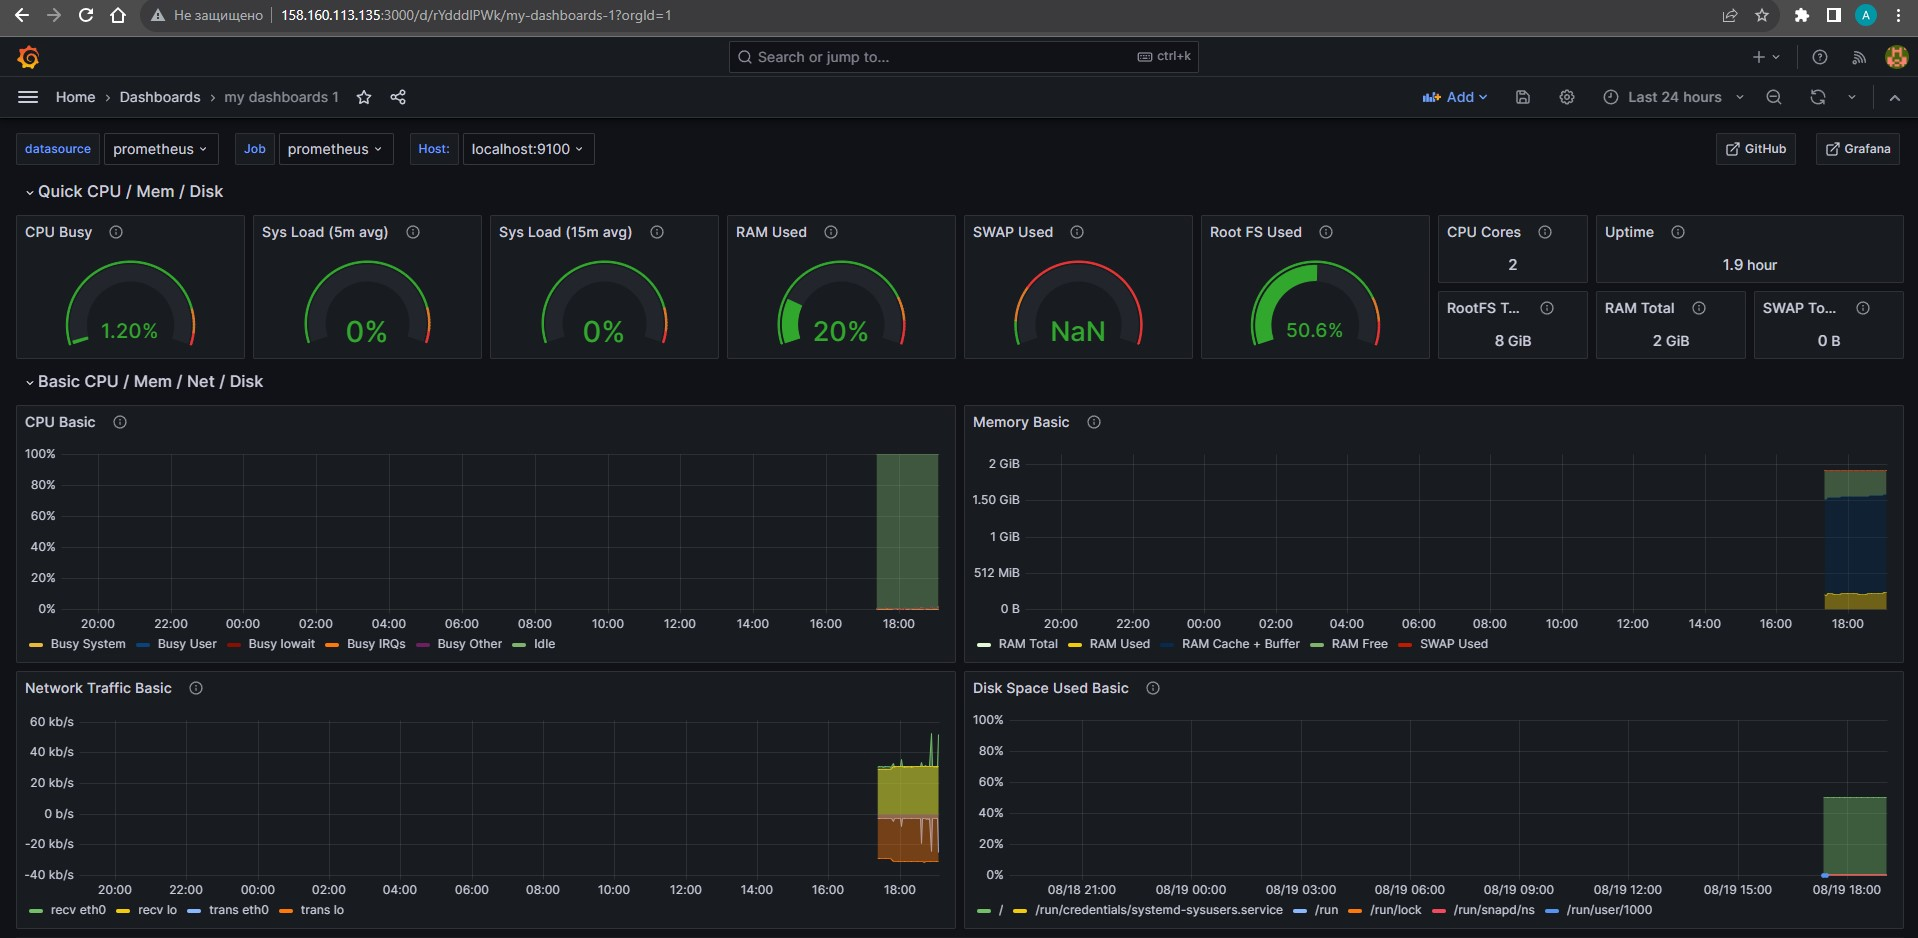
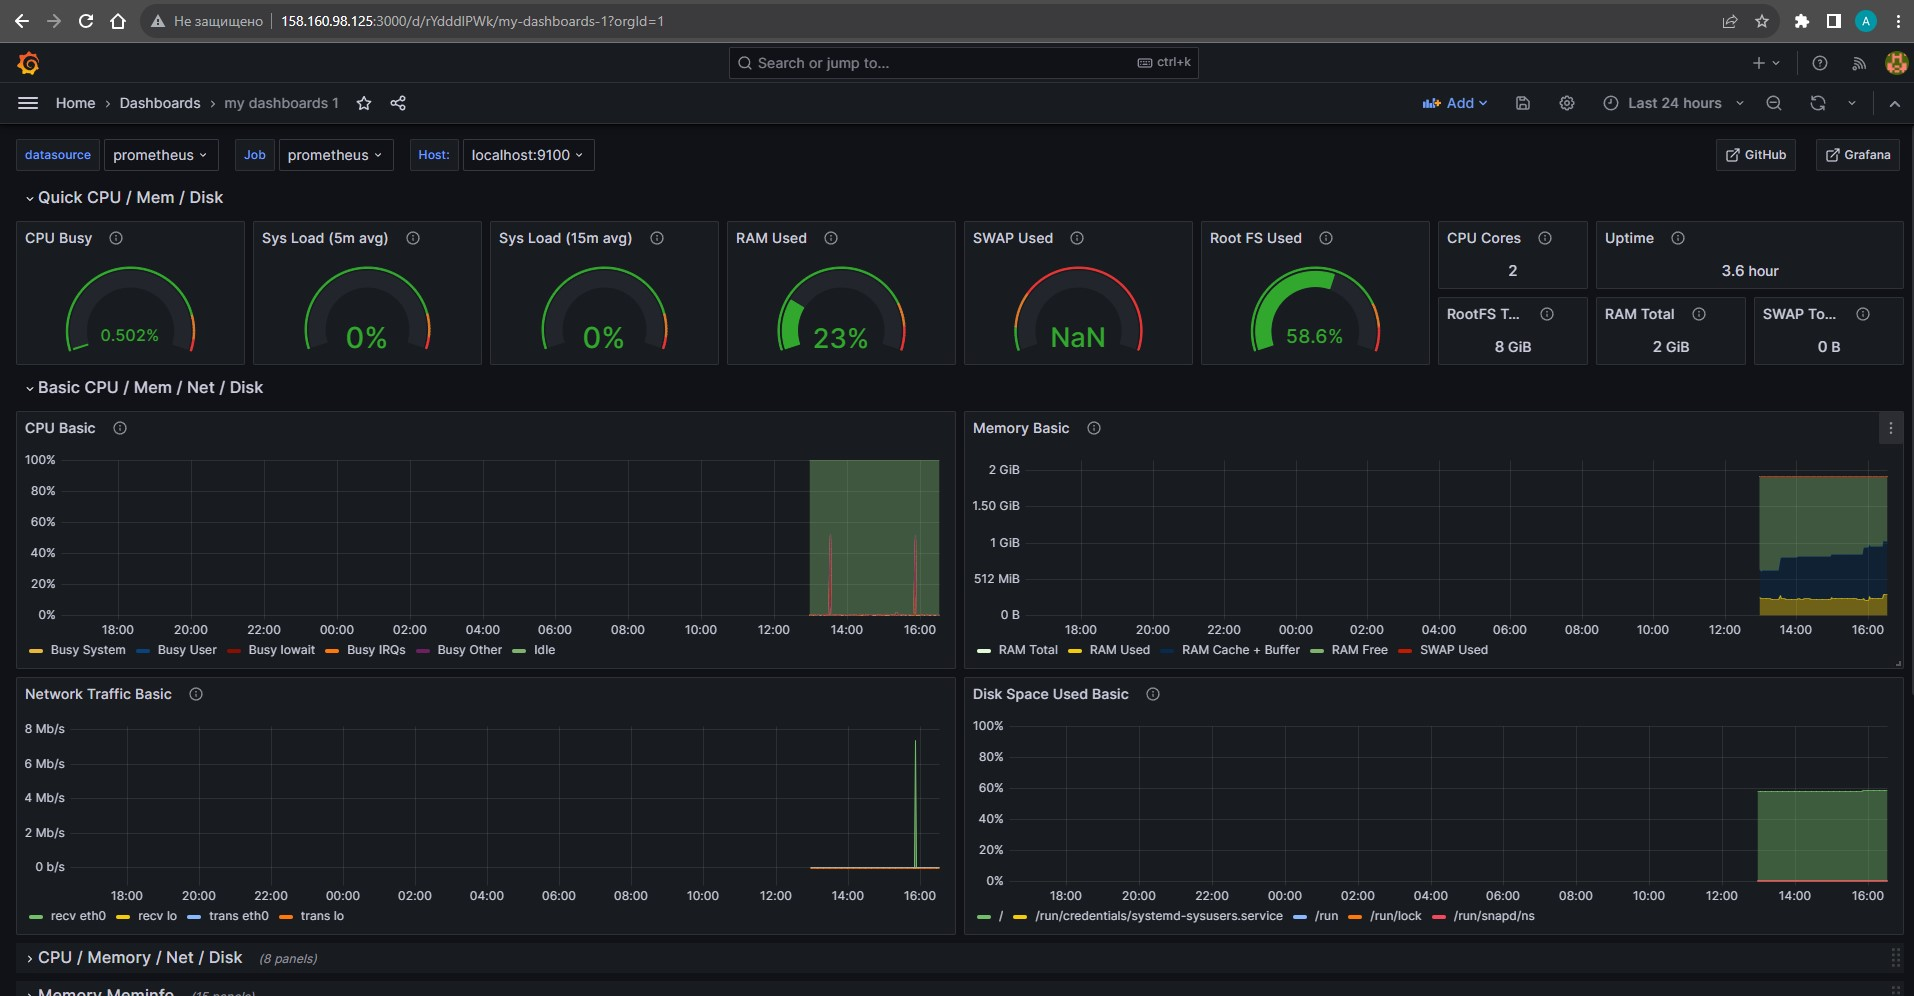
commit

diff --git a/README.md b/README.md
@@ -64,15 +64,16 @@ ___
  #### 3. Мониторинг
 
 
-[Ссылка на Grafana](http://158.160.113.135:3000)
+[Ссылка на Grafana](http://158.160.98.125:3000)
 
-http://158.160.113.135:3000
+http://158.160.98.125:3000
 
 login: admin
 
 password: 123456789
 
 ![](image/6.jpg)
+![](image/6.1.jpg)
 
 ### 4. Логи
 
@@ -82,9 +83,9 @@ password: 123456789
 2. На хосте kibana - kibana
 3. На хостах web1 и web2 включает модуль nginx и конфигурирует filebeat
 
-[Ссылка на Kibana](http://158.160.36.161:5601)
+[Ссылка на Kibana](http://158.160.118.170:5601)
 
-http://158.160.36.161:5601
+http://158.160.118.170:5601
 
 login: userl
 
